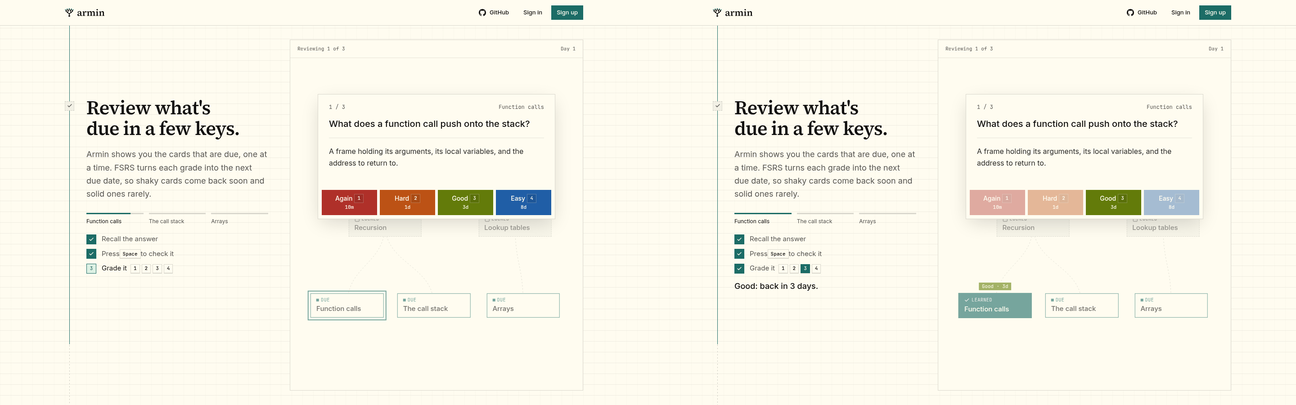
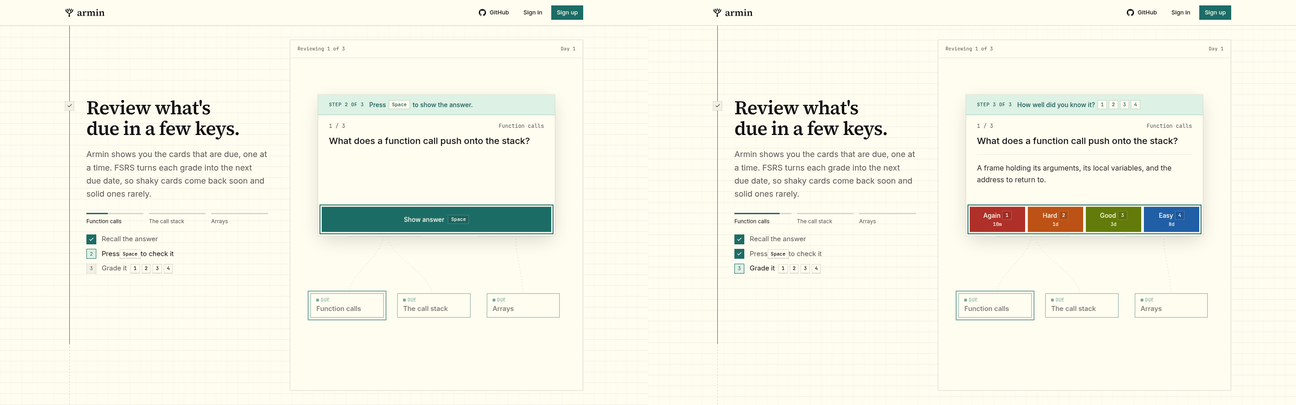
Coach each step of the landing review demo
A coach bar on the review card names the step and the action it
expects and rings the control it means. The first card teaches the
loop over four stops (recall, Space, grade, result), the next two
repeat it in two stops each, and the beat is longer and paced at
about one second per step.

diff --git a/apps/web/src/components/landing/story-scene.ts b/apps/web/src/components/landing/story-scene.ts
@@ -75,33 +75,38 @@ const easeOut = cubicBezier(0.23, 1, 0.32, 1);
 const easeInOut = cubicBezier(0.77, 0, 0.175, 1);
 
 /*
- * Beat 3 is a stepper, not a scrub. Each card has three resting stations:
+ * Beat 3 is a stepper, not a scrub. The first card teaches the loop with four
+ * resting stations, each named by the coach bar on the review card:
  *
- *   recall   the question is up and Show answer waits for Space
- *   prompt   Space was pressed, the answer is shown, the grades wait
+ *   recall   the question is up: read it and recall the answer
+ *   ask      the coach asks for Space and rings Show answer
+ *   prompt   Space was pressed and the answer is shown; the coach asks for a grade
  *   graded   the grade key was pressed and the grade landed on the graph
  *
- * plus a final "caught up" station. Scroll picks the station (see
+ * The next two cards repeat the loop with two stations each (prompt, graded),
+ * and a final "caught up" station closes the beat. Scroll picks the station (see
  * reviewStation); the page then plays from one station to the next at a
  * steady pace, so each key press and reveal runs in full and the caption's
  * steps change only when a step is complete.
  */
-const REVIEW_START = 3.05;
-const REVIEW_STEP = 0.29;
-const REVIEW_END = [3.91, 3.97] as const;
-const CAUGHT_UP = 3.985;
+const REVIEW_START = 3.04;
+const REVIEW_STEP = 0.3;
+const REVIEW_END = [3.935, 3.975] as const;
+const CAUGHT_UP = 3.988;
 const REVIEW_TIMES = REVIEWS.map((_, i) => {
   const s = REVIEW_START + i * REVIEW_STEP;
   return {
     start: s,
     recall: s + 0.06,
-    space: [s + 0.08, s + 0.1] as const,
-    answer: [s + 0.09, s + 0.15] as const,
-    flipped: s + 0.11,
-    prompt: s + 0.17,
-    grade: [s + 0.19, s + 0.22] as const,
-    learned: s + 0.22,
-    graded: s + 0.26,
+    hint: s + 0.075,
+    ask: s + 0.09,
+    space: [s + 0.1, s + 0.12] as const,
+    answer: [s + 0.11, s + 0.17] as const,
+    flipped: s + 0.13,
+    prompt: s + 0.19,
+    grade: [s + 0.21, s + 0.24] as const,
+    learned: s + 0.24,
+    graded: s + 0.28,
   };
 });
 const reviewIndex = (t: number) =>
@@ -112,11 +117,19 @@ const reviewIndex = (t: number) =>
  * The first card's question gets extra room while the caption scrolls in.
  */
 const STATIONS = [
-  ...REVIEW_TIMES.flatMap((r, i) => [
-    { t: r.recall, share: i === 0 ? 1.6 : 1 },
-    { t: r.prompt, share: 1 },
-    { t: r.graded, share: 1 },
-  ]),
+  ...REVIEW_TIMES.flatMap((r, i) =>
+    i === 0
+      ? [
+          { t: r.recall, share: 1.6 },
+          { t: r.ask, share: 1 },
+          { t: r.prompt, share: 1 },
+          { t: r.graded, share: 1 },
+        ]
+      : [
+          { t: r.prompt, share: 1 },
+          { t: r.graded, share: 1 },
+        ],
+  ),
   { t: CAUGHT_UP, share: 1 },
 ];
 const STATION_TOTAL = STATIONS.reduce((sum, station) => sum + station.share, 0);
@@ -153,10 +166,24 @@ function reviewSteps(t: number): [StepState, StepState, StepState] {
   if (t < 3) return ["upcoming", "upcoming", "upcoming"];
   if (t >= REVIEW_END[0]) return ["done", "done", "done"];
   const r = REVIEW_TIMES[reviewIndex(t)]!;
-  if (t < r.space[0]) return ["current", "upcoming", "upcoming"];
+  if (t < r.hint) return ["current", "upcoming", "upcoming"];
   if (t < r.flipped) return ["done", "current", "upcoming"];
   if (t < r.learned) return ["done", "done", "current"];
   return ["done", "done", "done"];
+}
+
+/**
+ * The coach bar on the review card: which step the first card is on and what it
+ * expects next, a reminder on the later cards, and each grade's result.
+ */
+function coachAt(t: number) {
+  const i = reviewIndex(t);
+  const r = REVIEW_TIMES[i]!;
+  if (t >= r.learned) return `result-${i}`;
+  if (i > 0) return `repeat-${i}`;
+  if (t < r.hint) return "recall";
+  if (t < r.flipped) return "space";
+  return "grade";
 }
 
 function deckState(id: NodeId, t: number): NodeState {
@@ -297,6 +324,8 @@ export function createScene(
   const faces = REVIEWS.map((_, i) => one<HTMLElement>(`[data-face="${i}"]`));
   const answers = REVIEWS.map((_, i) => one<HTMLElement>(`[data-answer="${i}"]`));
   const spaceKey = one("[data-key=space]");
+  const ratingRow = one("[data-ratings]");
+  const coachLines = [...stage.querySelectorAll<HTMLElement>("[data-coach]")];
   const ratingKeys = [0, 1, 2, 3].map((i) => one<HTMLElement>(`[data-key="r${i}"]`));
   const field = one("[data-field]");
   const fieldEdgeGroup = one<SVGGElement>("[data-field-edges]");
@@ -490,6 +519,11 @@ export function createScene(
       style(answers[i]!, "clip-path", `inset(0 0 ${((1 - shownAnswer) * 100).toFixed(2)}% 0)`);
     });
     attr(reviewPanel, "data-flipped", t >= times.flipped);
+    // The coach names the step; the control it asks for is ringed.
+    const coach = coachAt(t);
+    for (const line of coachLines) attr(line, "data-active", line.dataset.coach === coach);
+    attr(spaceKey, "data-hint", coach === "space");
+    attr(ratingRow, "data-hint", t >= times.flipped && t < times.learned);
     attr(spaceKey, "data-pressed", within(t, times.space[0], times.space[1]));
     const rating = REVIEWS[active]!.rating;
     ratingKeys.forEach((key, i) => {

diff --git a/apps/web/src/components/landing/scroll-story.tsx b/apps/web/src/components/landing/scroll-story.tsx
@@ -85,8 +85,8 @@ const BEATS: { title: string; body: ReactNode; long?: boolean }[] = [
 
 const clamp01 = (v: number) => Math.min(1, Math.max(0, v));
 
-/** Timeline units per second between review stations: about 0.9 s per step. */
-const REVIEW_PACE = 0.12;
+/** Timeline units per second between review stations: about 1 s per step. */
+const REVIEW_PACE = 0.1;
 
 /**
  * The frame reduced motion shows for each beat. The review beat already rests
@@ -281,7 +281,7 @@ export function ScrollStory() {
             className={cn(
               "story-beat relative flex flex-col py-12",
               beat.long
-                ? "min-h-[300svh] justify-start lg:min-h-[340dvh]"
+                ? "min-h-[420svh] justify-start lg:min-h-[480dvh]"
                 : "min-h-[60svh] justify-center lg:min-h-[86dvh]",
             )}
           >
@@ -624,6 +624,69 @@ const RATINGS = [
   { label: "Easy", key: "4", interval: "8d", bg: "bg-easy" },
 ] as const;
 
+const COACH_KEY = "border-accent/30 bg-surface text-accent-deep shadow-none";
+const GRADE_KEYS = (
+  <span className="inline-flex gap-1">
+    {["1", "2", "3", "4"].map((key) => (
+      <Kbd key={key} className={COACH_KEY}>
+        {key}
+      </Kbd>
+    ))}
+  </span>
+);
+const DAYS = (chip: string) => chip.split(" · ")[1]!.replace("d", "");
+
+/** Every line the coach bar can show, keyed as story-scene's coachAt names them. */
+const COACH_LINES: { id: string; step: string; text: ReactNode }[] = [
+  { id: "recall", step: "Step 1 of 3", text: "Read the question and recall the answer." },
+  {
+    id: "space",
+    step: "Step 2 of 3",
+    text: (
+      <>
+        Press <Kbd className={COACH_KEY}>Space</Kbd> to show the answer.
+      </>
+    ),
+  },
+  {
+    id: "grade",
+    step: "Step 3 of 3",
+    text: <>How well did you know it? {GRADE_KEYS}</>,
+  },
+  ...REVIEWS.slice(1).map((_, i) => ({
+    id: `repeat-${i + 1}`,
+    step: `Card ${i + 2} of ${REVIEWS.length}`,
+    text: (
+      <>
+        Same keys: <Kbd className={COACH_KEY}>Space</Kbd>, then a grade.
+      </>
+    ),
+  })),
+  ...REVIEWS.map((review, i) => ({
+    id: `result-${i}`,
+    step: "Graded",
+    text: `${RATINGS[review.rating]!.label}. It comes back in ${DAYS(review.chip)} days.`,
+  })),
+];
+
+/**
+ * The review card's coach: the step the review is on and the action it
+ * expects, so the demo reads as a walkthrough. Lines share one place and the
+ * scene marks the active one.
+ */
+function CoachBar() {
+  return (
+    <div className="story-coach">
+      {COACH_LINES.map((line) => (
+        <p key={line.id} data-coach={line.id} className="story-coach-line">
+          <span className="story-coach-step">{line.step}</span>
+          <span className="flex flex-wrap items-center gap-x-1.5 gap-y-1">{line.text}</span>
+        </p>
+      ))}
+    </div>
+  );
+}
+
 /**
  * The review screen in miniature, working through the three due cards. Each
  * card is a face stacked in the same place; the rating row is shared.
@@ -631,18 +694,19 @@ const RATINGS = [
 function ReviewPanel() {
   return (
     <div data-review className="story-panel w-[min(33rem,calc(100cqw-1.5rem))]">
-      <div className="grid px-4 pt-4 pb-4 sm:px-6 sm:pt-5 sm:pb-5">
+      <CoachBar />
+      <div className="grid px-4 pt-3 pb-4 sm:px-6 sm:pt-4 sm:pb-5">
         {REVIEWS.map((card, i) => {
           const node = DECK.find((n) => n.id === card.id)!;
           return (
             <div key={card.id} data-face={i} className="story-face">
-              <div className="flex items-center justify-between font-mono text-xs text-muted tabular-nums">
+              <div className="flex items-center justify-between font-mono text-xs text-muted tabular-nums max-sm:hidden">
                 <span>
                   {i + 1} / {REVIEWS.length}
                 </span>
                 <span>{node.label}</span>
               </div>
-              <p className="mt-3 text-base leading-snug font-medium text-pretty text-ink sm:mt-4 sm:text-xl">
+              <p className="text-base sm:mt-3 leading-snug font-medium text-pretty text-ink sm:text-xl">
                 {card.front}
               </p>
               <div
@@ -658,12 +722,12 @@ function ReviewPanel() {
       <div className="story-actions grid h-14 px-2 pb-2 sm:h-16">
         <span
           data-key="space"
-          className="story-show story-press flex items-center justify-center gap-2 bg-accent text-sm font-medium text-on-accent"
+          className="story-show story-press story-hint flex items-center justify-center gap-2 bg-accent text-sm font-medium text-on-accent"
         >
           Show answer
           <Kbd className="border-on-accent/25 bg-ink/10 text-on-accent shadow-none">Space</Kbd>
         </span>
-        <span className="story-ratings grid grid-cols-4 gap-1.5">
+        <span data-ratings className="story-ratings story-hint grid grid-cols-4 gap-1.5">
           {RATINGS.map((rating, i) => (
             <span
               key={rating.label}

diff --git a/apps/web/src/styles/app.css b/apps/web/src/styles/app.css
@@ -1056,6 +1056,62 @@ html[data-scroll="document"] body {
 .story-key[data-pressed] {
   scale: 0.9;
 }
+/* The coach bar on the review card: the current step and the action it
+   expects. Lines share one place and ease in as the step changes. */
+.story-coach {
+  display: grid;
+  border-bottom: 1px solid color-mix(in oklch, var(--color-accent) 30%, transparent);
+  background-color: var(--color-accent-tint);
+  padding: 0.625rem 1rem;
+  color: var(--color-accent-deep);
+}
+@media (min-width: 640px) {
+  .story-coach {
+    padding: 0.75rem 1.5rem;
+  }
+}
+.story-coach-line {
+  display: flex;
+  grid-area: 1 / 1;
+  flex-wrap: wrap;
+  align-items: center;
+  gap: 0.25rem 0.75rem;
+  font-size: 0.875rem;
+  font-weight: 500;
+  line-height: 1.4;
+  opacity: 0;
+  translate: 0 4px;
+  transition:
+    opacity 0.2s var(--ease-out),
+    translate 0.25s var(--ease-out);
+}
+.story-coach-line[data-active] {
+  opacity: 1;
+  translate: 0 0;
+}
+.story-coach-step {
+  font-family: var(--font-mono);
+  font-size: 0.6875rem;
+  letter-spacing: 0.04em;
+  text-transform: uppercase;
+  white-space: nowrap;
+}
+/* The control the coach asks for is ringed until it is used. */
+.story-hint {
+  position: relative;
+}
+.story-hint::after {
+  content: "";
+  position: absolute;
+  inset: -5px;
+  border: 2px solid var(--color-accent);
+  opacity: 0;
+  pointer-events: none;
+  transition: opacity 0.2s ease;
+}
+.story-hint[data-hint]::after {
+  opacity: 1;
+}
 /* Review faces share one place; the next card slides in as the last leaves. */
 .story-face {
   grid-area: 1 / 1;

diff --git a/docs/qa/2026-11-02-landing-scroll-story.md b/docs/qa/2026-11-02-landing-scroll-story.md
@@ -21,17 +21,21 @@ through six beats:
    to it, and the card locks; it then drags a second link from Lookup tables.
    Each link settles into the graph's dashed style, and the header ends on
    "Memoization locked: needs 2".
-4. **Review:** the page's longest scroll, about three and a half screens on
-   desktop, built as a stepper rather than a scrub. Each card has three resting
-   points (question up; answer shown; grade landed), plus a final "All caught
-   up". Scroll chooses the resting point, and the page then plays to it at a
-   steady pace (about 0.9 s per step), so the Space press, the answer reveal,
-   the grade press, and the grade landing on the graph each run in full, and
-   nothing changes while you hold still. The caption holds a progress bar per
-   card, the three steps for the card in review (Recall the answer; Press
-   Space to check it; Grade it 1–4), whose keys light up as the stage presses
-   them, and a result line ("Good: back in 3 days.") that eases in. On narrow
-   screens only the bars, steps, and result hold below the stage.
+4. **Review:** the page's longest scroll, about five screens on desktop,
+   built as a stepper rather than a scrub. A coach bar at the top of the review
+   card names the step and the action it expects, and rings the control it
+   means. The first card teaches the loop over four stops: "Step 1 of 3: Read
+   the question and recall the answer"; "Step 2 of 3: Press Space to show the
+   answer" with Show answer ringed; "Step 3 of 3: How well did you know it?
+   1 2 3 4" with the grades ringed; then "Graded: Good. It comes back in 3
+   days." The next two cards take two stops each ("Card 2 of 3: Same keys:
+   Space, then a grade", then the result), and "All caught up" closes the beat.
+   Scroll picks the stop and the page plays to it at a steady pace (about 1 s
+   per step), so the presses and reveals run in full and nothing changes while
+   you hold still. The caption beside the stage holds a bar per card, the same
+   three steps with keys that light up as the stage presses them, and the
+   result line. On narrow screens only the bars, steps, and result hold below
+   the stage.
 5. **Unlock:** days pass in the header (Day 1 to Day 9) while accent edges
    ink upwards, and each layer unlocks once its foundations are learned.
 6. **Whole subject:** the camera pulls back until the deck is one branch of a
@@ -47,21 +51,19 @@ review demo (`review-demo.tsx`) were removed; the story replaces both.
 
 ## The review beat
 
-The four resting points of the first card and the wrap-up (dark, desktop):
-question up with "Recall the answer" current; answer shown with "Grade it"
-current; Good pressed, its key lit, and the result line; then all three cards
-graded.
+Every stop in order (light, desktop): the first card's four teaching stops,
+the second card's grade and result, and "All caught up".
 
 ![Review sequence](2026-11-02-landing-scroll-story/03-review-sequence.png)
 
-The same resting points at 390×844 (light).
+The first card's Space, grade, and result stops, then the second card, at
+390×844 (dark).
 
 ![Review on a narrow screen](2026-11-02-landing-scroll-story/06-mobile-review.png)
 
-- Sampled in the page while moving from the question to the answer: Space shows
-  as pressed for about 150 ms, the answer is fully revealed by about 700 ms, and
-  the step marks advance once, in order.
-- A scripted 12-second scroll through the whole story recorded 721 frames, none
+- Sampled in the page while moving between stops: the active coach line and
+  caption steps change once per stop, in order.
+- A scripted 14-second scroll through the whole story recorded 842 frames, none
   over 20 ms, on this development machine. Not measured on a mid-range phone.
 - No console errors or warnings during the walkthrough.
 
@@ -76,8 +78,8 @@ scroll beneath it.
 
 With `prefers-reduced-motion: reduce` emulated, the deck shows one settled
 frame per beat and crossfades between them; nothing scrubs, zooms, or types.
-The review beat shows each of its resting points directly (question, answer,
-graded) with the caption steps matching, and nothing plays between them.
+The review beat shows each of its stops directly, coach bar and caption steps
+included, and nothing plays between them.
 
 ![Reduced motion, review beat](2026-11-02-landing-scroll-story/05-reduced-motion-review.png)
 
